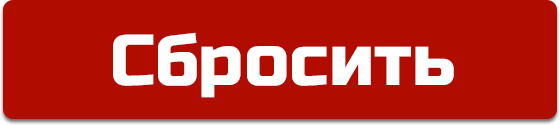
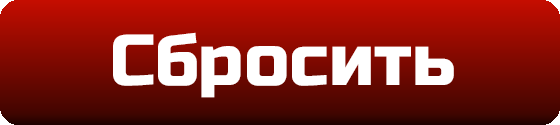
feat: единый вид кнопок — градиент, скругление и тень как у «Создай игру»
Кнопка выглядела по-своему в каждом месте: контурная жёлтая в лобби,
чёрная вкладка меню стола, легаси-градиенты с -moz-/-o-/progid у бейджа
и развилки. Вид вынесен в миксин buttons.button — форма одна, цвет
остаётся за кнопкой: зелёная делает, красная ломает, жёлтая кикает.

Текстуры кнопок на картах (act/discard/trade/select) перерисованы под тот
же градиент и радиус. Подпись перенесена из старых картинок пиксель в
пиксель, кнопка по-прежнему во весь кадр: рамка спрайта — это площадь
нажатия, ужимать её нельзя, поэтому объём даёт затемнение нижней кромки
внутрь, а не внешняя тень.

diff --git a/src/client/components/table/notifier/styles.scss b/src/client/components/table/notifier/styles.scss
@@ -1,3 +1,5 @@
+@use '../../../styles/buttons';
+
 .notificationWrapper {
 	position: fixed;
 	top:0;
@@ -33,37 +35,6 @@
 	}
 }
 
-.notificationMenuWrapper {
-	width: 100%;
-	display: flex;
-	flex-direction: row;
-	justify-content: space-between;
-	.notificationMenuItem {
-		color: white;
-		display: flex;
-		background: rgb(0, 0, 0);
-		align-items: center;
-		justify-content: center;
-		font-size: 14px;
-		padding: 10px;
-		margin-top: 3px;
-		font-weight: lighter;
-		flex: 1;
-		background: rgba(98,125,77,1);
-		background: -moz-linear-gradient(top, rgba(98,125,77,1) 0%, rgba(31,59,8,1) 100%);
-		background: -webkit-gradient(left top, left bottom, color-stop(0%, rgba(98,125,77,1)), color-stop(100%, rgba(31,59,8,1)));
-		background: -webkit-linear-gradient(top, rgba(98,125,77,1) 0%, rgba(31,59,8,1) 100%);
-		background: -o-linear-gradient(top, rgba(98,125,77,1) 0%, rgba(31,59,8,1) 100%);
-		background: -ms-linear-gradient(top, rgba(98,125,77,1) 0%, rgba(31,59,8,1) 100%);
-		background: linear-gradient(to bottom, rgba(98,125,77,1) 0%, rgba(31,59,8,1) 100%);
-		filter: progid:DXImageTransform.Microsoft.gradient( startColorstr='#627d4d', endColorstr='#1f3b08', GradientType=0 );
-		border-right: 1px solid black;
-		box-shadow: 0px 0px 1px black;
-		&:last-child {
-			border-right: 0px solid black;
-		}
-	}
-}
 .centeredNotificationRow {
 	display: flex;
 	width:100%;
@@ -72,29 +43,19 @@
 		flex-direction: column;
 		align-items: center;
 	}
+	// Кнопка выбора в развилке («сыграть или отказаться»): та же кнопка, что и
+	// везде, только тянется по ширине колонки.
 	.okayNotificationButton {
-		cursor: pointer;
+		@include buttons.button;
 		max-width: 300px;
 		width:100%;
-		color: white;
 		display: flex;
-		background: rgb(0, 0, 0);
 		align-items: center;
 		justify-content: center;
 		font-size: 14px;
 		padding: 10px;
-		margin-top: 3px;
-		font-weight: lighter;
+		// Кнопки идут стопкой — между ними должна быть видна тень соседки.
+		margin-top: 10px;
 		flex: 1;
-		background: rgba(98,125,77,1);
-		background: -moz-linear-gradient(top, rgba(98,125,77,1) 0%, rgba(31,59,8,1) 100%);
-		background: -webkit-gradient(left top, left bottom, color-stop(0%, rgba(98,125,77,1)), color-stop(100%, rgba(31,59,8,1)));
-		background: -webkit-linear-gradient(top, rgba(98,125,77,1) 0%, rgba(31,59,8,1) 100%);
-		background: -o-linear-gradient(top, rgba(98,125,77,1) 0%, rgba(31,59,8,1) 100%);
-		background: -ms-linear-gradient(top, rgba(98,125,77,1) 0%, rgba(31,59,8,1) 100%);
-		background: linear-gradient(to bottom, rgba(98,125,77,1) 0%, rgba(31,59,8,1) 100%);
-		filter: progid:DXImageTransform.Microsoft.gradient( startColorstr='#627d4d', endColorstr='#1f3b08', GradientType=0 );
-		border-right: 1px solid black;
-		box-shadow: 0px 0px 1px black;
 	}
 }

diff --git a/src/client/components/table/ActionInteracter/styles.scss b/src/client/components/table/ActionInteracter/styles.scss
@@ -1,10 +1,12 @@
+@use '../../../styles/buttons';
+
 @keyframes interaction-badge-pulse {
 	0%, 100% {
-		box-shadow: 1px 1px 5px #0000004f;
+		box-shadow: 0 4px 7px black;
 		filter: brightness(1);
 	}
 	50% {
-		box-shadow: 0 0 16px 2px #d7ff5e99;
+		box-shadow: 0 4px 7px black, 0 0 16px 2px #d7ff5e99;
 		filter: brightness(1.25);
 	}
 }
@@ -16,27 +18,24 @@
 	display: flex;
 	justify-content: center;
 	z-index: 20;
+	// Бейдж — не кнопка (его не жмут), но выглядит он так же, как кнопки: то же
+	// скругление, градиент и тень. Цвет свой, ярче зелёного: это не действие, а
+	// требование действия.
 	.interaction-badge {
+		@include buttons.button(buttons.$button-lime-top, buttons.$button-lime-bottom, 8px);
 		position: fixed;
 		z-index: 2;
 		top: 22%;
-		width: 100%;
+		// Не во всю ширину: на узком экране бейдж упирался бы в края, и скруглять
+		// было бы нечего.
+		width: calc(100% - 20px);
 		font-size: 14px;
 		display: flex;
 		justify-content: center;
 		padding: 2px 20px;
 		transition: font-size 0.2s ease, padding 0.2s ease, top 0.2s ease;
-		color: white;
 		max-width: 500px;
-		box-shadow: 1px 1px 5px #0000004f;
-		background: rgba(164,179,87,1);
-		background: -moz-linear-gradient(top, rgba(164,179,87,1) 0%, rgba(117,137,12,1) 100%);
-		background: -webkit-gradient(left top, left bottom, color-stop(0%, rgba(164,179,87,1)), color-stop(100%, rgba(117,137,12,1)));
-		background: -webkit-linear-gradient(top, rgba(164,179,87,1) 0%, rgba(117,137,12,1) 100%);
-		background: -o-linear-gradient(top, rgba(164,179,87,1) 0%, rgba(117,137,12,1) 100%);
-		background: -ms-linear-gradient(top, rgba(164,179,87,1) 0%, rgba(117,137,12,1) 100%);
-		background: linear-gradient(to bottom, #92ad0b 0%, #708600 100%);
-		filter: progid:DXImageTransform.Microsoft.gradient( startColorstr='#a4b357', endColorstr='#75890c', GradientType=0 );
+		cursor: default;
 
 		// Свёрнутый лог: бейдж — единственный индикатор действия, поэтому крупнее и пульсирует.
 		&.big {

diff --git a/src/client/styles/buttons.scss b/src/client/styles/buttons.scss
@@ -1,0 +1,41 @@
+// Единый вид кнопки во всей игре — тот, что задаёт «Создай игру» на входе:
+// вертикальный градиент от светлого края цвета к почти чёрному, скруглённые
+// углы, белая подпись и тень под кнопкой.
+//
+// Цвет остаётся за кнопкой: зелёная — обычное действие, красная — то, чего уже
+// не отменить, жёлтая — вмешательство хоста. Меняется только форма, поэтому
+// пары «верх–низ» заданы руками, а не выведены из одного цвета: у каждой пары
+// низ уходит в свой оттенок тени, как у зелёной — в чистую зелень.
+
+// Обычное действие. Этой парой покрашена «Создай игру» — она и есть образец.
+$button-green-top: #6c920e;
+$button-green-bottom: #005213;
+
+// Выход из игры, кик — то, что не отменить.
+$button-danger-top: #922e0e;
+$button-danger-bottom: #520500;
+
+// Бейдж текущего действия: ярче кнопок, потому что он не жмётся, а кричит.
+$button-lime-top: #a4c40d;
+$button-lime-bottom: #5c7a06;
+
+// Вмешательство хоста в чужую судьбу: кик из лобби.
+$button-warning-top: #d8bb00;
+$button-warning-bottom: #5a4a00;
+
+// Не действие, а состояние: переключатель в меню стола.
+$button-muted-top: #3f4a2a;
+$button-muted-bottom: #1c2410;
+
+@mixin button($top: $button-green-top, $bottom: $button-green-bottom, $radius: 5px) {
+	border: 0;
+	border-radius: $radius;
+	background: linear-gradient(180deg, $top 0%, $bottom 100%);
+	color: white;
+	box-shadow: 0 4px 7px black;
+	cursor: pointer;
+
+	&:disabled {
+		opacity: 0.25;
+	}
+}

diff --git a/src/client/components/launcher/style.scss b/src/client/components/launcher/style.scss
@@ -1,3 +1,5 @@
+@use '../../styles/buttons';
+
 .launcher-wrapper {
     max-width: 220px;
 	width:100%;
@@ -42,19 +44,10 @@
 }
 
 .launcher-button {
-    width: 100%;
-    padding: 7px;
-    border-radius: 5px;
-    border: 0px;
-    background: #009408;
-    background: linear-gradient(180deg, #6c920e 0%, #005213 100%);
-    color: white;
-    box-shadow: 0px 4px 7px black;
-	cursor: pointer;
+	@include buttons.button;
+	width: 100%;
+	padding: 7px;
 	margin-bottom: 10px;
-	&:disabled {
-		opacity: 0.25;
-	}
 }
 
 // Комната в списке: хост сверху, состав — второй строкой помельче.

diff --git a/src/client/components/lobby/style.scss b/src/client/components/lobby/style.scss
@@ -1,3 +1,5 @@
+@use '../../styles/buttons';
+
 h1 {
 	margin-top: 5px;
 }
@@ -17,13 +19,10 @@ h1 {
 		box-shadow: 1px 8px 7px -4px #047903;
 	}
 	.kick-button {
-		color: #ffe000;
-		background: none;
-		border: 1px solid #ffe000;
+		@include buttons.button(buttons.$button-warning-top, buttons.$button-warning-bottom);
 		padding: 3px 10px;
-		border-radius: 5px;
-		cursor: pointer;
-		background: #0000001f;
+		// Кнопка сидит внутри строки игрока: большая тень оторвала бы её от строки.
+		box-shadow: 0 2px 4px black;
 	}
 }
 

diff --git a/src/client/components/webgl/style.scss b/src/client/components/webgl/style.scss
@@ -1,3 +1,5 @@
+@use '../../styles/buttons';
+
 .webgl-message {
 	max-width: 440px;
 	width: 100%;
@@ -52,12 +54,8 @@
 	}
 
 	.webgl-copy {
+		@include buttons.button;
 		padding: 6px 10px;
-		border: 0;
-		border-radius: 5px;
-		background: linear-gradient(180deg, #6c920e 0%, #005213 100%);
-		color: white;
-		cursor: pointer;
 		white-space: nowrap;
 	}
 }
